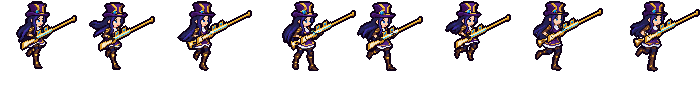
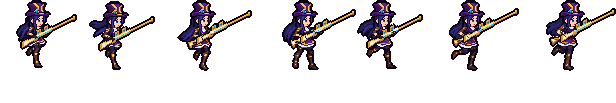
凯特琳跑步：后腿暗一级 + 每帧同一个头（tools/art/caitlyn_run_shade.py）（用户：「调暗后腿试试」「怎么感觉耳朵也变形了」）
- 底稿：她现在画的跑步帧，按 run_fix 修过（取自 claude/run-fix ca30bd62d：去掉画小了的旧第 5 帧，4 帧落到地面线，
  117 ms x 4 + 156 ms x 3 = 936 ms），存为 assets/source/caitlyn/hd/caitlyn_run_drawn.png。格子一个不动，
  只改颜色和头。
- 后腿：她的左腿（联盟的 L 腿，离镜头远的那条），每帧都是同一条腿（0-2 帧往后甩、3 帧在前落地、4-5 帧踩地、
  6 帧往后抬），靴子的棕、丝袜的藏青、扣子的金都按她自己的色阶暗一级，最暗那级不动；枪托和裙边的金不算腿。
- 头：站立帧（hd_idle_base 第 0 帧）的帽子、脸、耳朵和耳前的鬓发，每帧放在原来头的位置（按帽子对齐，跟着起伏整格
  移动）；后面飘的头发保留，头和头发相接处补 2 格描边；第 6 帧步枪从下巴前面过，步枪留在前面。耳朵那块 20 x 18
  的窗口，帧与帧之间变化从 156-247 格降到 36-74 格（只剩后面的头发在动，和第 6 帧下巴前的步枪）。
- 1x 帧按她其它 1x 动作的比例（高清 / 1.5）从高清帧做，lo_ 帧照 ppu_hd.add_lo。
- 形状一致性逐部件看过：头、两条腿、两只靴子、裙子都过；步枪在旧画里本来就有两种长度（第 0、1、4 帧约 60 格，
  其余 68-70 格），这次没改。

Changed region(s): [[0.0, 0.0, 0.8636, 0.699], [0.8636, 0.0, 1.0, 0.699]]

diff --git a/tools/art/caitlyn_run_shade.py b/tools/art/caitlyn_run_shade.py
@@ -1,0 +1,349 @@
+#!/usr/bin/env python3
+"""league_caitlyn's run: her own drawn frames, the far leg a shade darker and one head in every frame (the user, on
+her run: 「女警看不出交叉步啊」, then 「调暗后腿试试」 - darken the back leg - and 「怎么感觉耳朵也变形了」 - her ear changed from
+frame to frame).
+
+    python tools/art/caitlyn_run_shade.py                 # run / hd_run / lo_run into the sheet (+ the strips)
+    python tools/art/caitlyn_run_shade.py --check         # exit 1 when the sheet's run tags are not what it makes
+    python tools/art/caitlyn_run_shade.py --dry           # make them, write nothing
+
+The frames are her old run's drawings as tools/art/run_fix.py left them (assets/source/caitlyn/hd/
+caitlyn_run_drawn.png: the old frames 0 1 2 3 4 6 7 - the 6th, drawn small, dropped - the feet on the ground line,
+117 ms a frame in one step and 156 in the other). No square of them moves but whole frames; only colours change, and
+the head is one drawing:
+
+- the far leg: her left leg (League's L leg: in her poses.json camera, tools/lol/pose_joints.py, it is the one away
+  from the camera), the same leg through the cycle - swinging back in frames 0-2 (kicked up, folded, passing), landing
+  in front in 3, planted under her in 4-5, lifting behind in 6 - its stocking and its boot (every square of FAR's
+  rects in her leg colours, but a gold of the rifle's stock or the skirt's trim reaching in) one step down her own
+  ramps (DARKER: the boot's browns, the stocking's navies, the buckles' golds); the darkest of each ramp stays (a
+  step more is the outline). The near leg, and where it lies over the far one, untouched;
+- the head: the standing frame's (hd_idle_base[0] within HEAD: the hat, the face, the ear and the sidelocks in front
+  of it - cleaner than any run frame's, and the head she has standing; not the bit of her rifle HEAD's corner takes
+  in) put in every frame where that frame's own head was (its hat matched square for square, so it follows her bob
+  by whole squares); where the rifle passes in front of her chin (frame 6) the rifle stays in front, an outline on
+  the head's side of it; round the head the frame's own hat, face and sidelocks cleared (never the rifle), her back
+  hair kept; where the head meets that hair, 2 squares of outline on the hair's side; an edge the clearing bared
+  closed with outline, and a pinhole of ground the head shut in filled with outline. The ear's window then changes
+  from frame to frame only where her hair moves behind it.
+The 1x frames come from the dense ones as tools/art/ppu_one.py's one_frame makes them, at her 1x tags' own scale
+(ONE: her idle, attack and old run 1x frames are her hd_ ones at 1 / 1.5, not 1 / PPU - a run at 1 / 1.45 stood
+4 % taller than her other 1x tags), the lo_ frames as tools/art/ppu_hd.py's add_lo does. Her frames feed no derived
+art (illaoi_souls / hero_reels read other heroes).
+"""
+import argparse
+import json
+import os
+import sys
+
+import numpy as np
+from PIL import Image
+from scipy import ndimage
+
+HERE = os.path.dirname(os.path.abspath(__file__))
+ROOT = os.path.dirname(os.path.dirname(HERE))
+sys.path.insert(0, HERE)
+import run_fix as F  # noqa: E402
+import thin_outline as T  # noqa: E402
+
+HERO = "league_caitlyn"
+SOURCE = os.path.join(ROOT, "assets", "source", "caitlyn", "hd", "caitlyn_run_drawn")
+OUT = (14, 0, 21)
+ONE = 1.5                 # her hd_ squares a 1x pixel in her 1x tags (idle, attack, the old run: measured)
+# one step down her ramps (light -> dark): boot browns, stocking navies, buckle golds
+DARKER = {(135, 80, 35): (108, 61, 43), (108, 61, 43): (79, 42, 31), (79, 42, 31): (45, 32, 32),
+          (40, 39, 98): (35, 33, 79), (35, 33, 79): (22, 12, 44),
+          (251, 204, 74): (238, 175, 49), (238, 175, 49): (217, 152, 38), (217, 152, 38): (201, 132, 29),
+          (201, 132, 29): (186, 119, 29), (186, 119, 29): (160, 97, 29), (160, 97, 29): (135, 80, 35)}
+LEG = set(DARKER) | {(45, 32, 32), (22, 12, 44)}
+# the far leg's squares in each frame: [((row0, row1), (col0, col1))] inclusive, frame squares, from the skirt's hem
+FAR = {
+    0: [((46, 49), (24, 34)), ((50, 58), (22, 33))],      # swinging back, kicked up (the planted leg from col 35)
+    1: [((47, 48), (31, 33)), ((49, 51), (24, 32)), ((52, 60), (22, 31))],   # kicked up higher (its thigh's top
+                                                                             # under the hem as frame 0's)
+    2: [((47, 50), (34, 45)), ((51, 61), (33, 44))],      # folded, passing behind the planted leg
+    3: [((47, 70), (51, 70))],                            # landed in front
+    4: [((46, 69), (26, 42))],                            # planted under her (the near leg kicks back, cols < 26)
+    5: [((47, 71), (40, 56))],                            # planted, the near leg passing behind (cols < 40)
+    6: [((46, 56), (26, 45))],                            # lifting behind (the near leg planted from col 46)
+}
+# what shines on the rifle and the skirt's trim: their golds, creams and whites (a gold of FAR's that runs into these
+# outside FAR is theirs, not a buckle of the leg's)
+SHINE = {(251, 204, 74), (238, 175, 49), (217, 152, 38), (201, 132, 29), (186, 119, 29), (160, 97, 29),
+         (247, 237, 206), (242, 221, 175), (251, 250, 251), (223, 227, 242), (196, 201, 229)}
+HEAD = [(19, 0), (47, 0), (47, 16), (44, 17), (44, 28), (26, 28), (26, 17), (19, 17)]   # hd_idle_base[0] squares
+EAR_COL, BRIM, CHIN = 26, 17, 28      # (idle squares) the ear's left edge, the brim's underside, the chin's bottom
+
+
+def lp(path):
+    return F.lp(path)
+
+
+def drawn():
+    """The source frames -> ([dense frames], [ms], [1x sizes], [lo sizes])."""
+    with open(lp(SOURCE + ".json"), encoding="utf-8") as f:
+        meta = json.load(f)
+    px = np.asarray(Image.open(lp(SOURCE + ".png")).convert("RGBA"))
+    out, x = [], 0
+    for w, h in meta["sizes"]:
+        out.append(px[:h, x:x + w].copy())
+        x += w + 1
+    return out, meta["ms"], meta["one"], meta["lo"]
+
+
+def far_mask(a, i):
+    m = np.zeros(a.shape[:2], bool)
+    for (y0, y1), (x0, x1) in FAR[i]:
+        m[y0:y1 + 1, x0:x1 + 1] = True
+    leg = np.zeros(a.shape[:2], bool)
+    for c in LEG:
+        leg |= (a[..., :3] == np.array(c)).all(-1)
+    far = m & leg & (a[..., 3] > 0)
+    shine = colour_mask(a, SHINE)
+    lab, n = ndimage.label(shine, structure=np.ones((3, 3)))
+    for j in set(np.unique(lab[far & shine]).tolist()) - {0}:
+        if ((lab == j) & ~m).sum() >= 3:
+            far &= lab != j                             # the rifle's stock, the skirt's trim
+    return far
+
+
+def shaded(a, i):
+    b = a.copy()
+    for y, x in zip(*np.nonzero(far_mask(a, i))):
+        c = tuple(int(v) for v in a[y, x, :3])
+        if c in DARKER:
+            b[y, x, :3] = DARKER[c]
+    return b
+
+
+def the_head(idle):
+    """The standing frame's head -> (picture, mask, top-left in the idle frame): HEAD's squares joined to the head
+    (not the bit of her rifle HEAD's corner takes in by the chin)."""
+    m = F_poly(idle.shape, HEAD) & (idle[..., 3] > 0)
+    lab, n = ndimage.label(m, structure=np.ones((3, 3)))
+    m = lab == 1 + int(np.argmax(ndimage.sum(m, lab, range(1, n + 1))))
+    ys, xs = np.nonzero(m)
+    y0, x0 = ys.min(), xs.min()
+    h = idle[y0:ys.max() + 1, x0:xs.max() + 1].copy()
+    hm = m[y0:ys.max() + 1, x0:xs.max() + 1]
+    h[~hm] = 0
+    return h, hm, (int(x0), int(y0))
+
+
+def F_poly(shape, pts):
+    from PIL import ImageDraw
+    img = Image.new("L", (shape[1], shape[0]), 0)
+    ImageDraw.Draw(img).polygon([(x - 0.5, y - 0.5) for x, y in pts], fill=1, outline=1)
+    return np.asarray(img, bool)
+
+
+def hat_anchor(a):
+    """The hat's left edge and top (its purples)."""
+    rgb = a[..., :3].astype(int)
+    pur = (rgb[..., 0] - rgb[..., 1] > 20) & (rgb[..., 2] - rgb[..., 1] > 20) & (a[..., 3] > 0) & (rgb.sum(-1) > 120)
+    top = np.nonzero(pur.any(1))[0][0]
+    return int(np.nonzero(pur[top:top + 16].any(0))[0].min()), int(top)
+
+
+def place(a, h, hm, at, idle):
+    """Where the head goes in frame a: its hat on the frame's own hat (the best match within 3 squares of the hats'
+    corners lining up)."""
+    ix, iy = hat_anchor(idle)
+    ax, ay = hat_anchor(a)
+    bx, by = at[0] + ax - ix, at[1] + ay - iy
+    rows = slice(0, BRIM - at[1])
+    best = None
+    for dy in range(-3, 4):
+        for dx in range(-3, 4):
+            x, y = bx + dx, by + dy
+            if x < 0 or y < 0:
+                continue
+            sub = a[y:y + h.shape[0], x:x + h.shape[1]]
+            if sub.shape[:2] != h.shape[:2]:
+                continue
+            same = (np.abs(sub[..., :3].astype(int) - h[..., :3].astype(int)).sum(-1) <= 30) & hm & (sub[..., 3] > 0)
+            sc = same[rows].sum() + 50 * ((sub[..., 3] > 0) == hm)[rows].mean()
+            if best is None or sc > best[0]:
+                best = (sc, x, y)
+    return best[1], best[2]
+
+
+HAIR = {(22, 12, 44), (35, 33, 79), (40, 39, 98), (49, 41, 137), (64, 49, 168)}     # her hair's navies
+# her own head's colours (cleared round the locked head): the outline, the hat's purples, the hair, skin, blush, mouth -
+# never the rifle's golds, creams, whites or blues passing her face
+HEADS = {OUT, (47, 12, 65), (59, 16, 86), (74, 25, 111), (87, 36, 144), (252, 207, 174), (244, 162, 125),
+         (212, 115, 84), (208, 37, 56)} | HAIR
+
+
+def hairish(c):
+    return tuple(int(v) for v in c[:3]) in HAIR
+
+
+def removable(c):
+    """A square of the frame's own head round the locked one (HEADS)."""
+    return tuple(int(v) for v in c[:3]) in HEADS
+
+
+# the rifle's colours: its golds and creams (BODY), the scope's blues, its greys (not the whites: her collar's too)
+BODY = {(251, 204, 74), (238, 175, 49), (217, 152, 38), (201, 132, 29), (186, 119, 29), (160, 97, 29), (135, 80, 35),
+        (247, 237, 206), (242, 221, 175)}
+RIFLE = BODY | {(97, 212, 241), (9, 185, 249), (8, 158, 237), (6, 111, 206), (6, 110, 190), (6, 73, 167),
+                (3, 90, 109), (68, 111, 143), (134, 186, 165), (122, 113, 105), (85, 92, 27)}
+
+
+def colour_mask(a, cols):
+    m = np.zeros(a.shape[:2], bool)
+    for c in cols:
+        m |= (a[..., :3] == np.array(c)).all(-1)
+    return m & (a[..., 3] > 0)
+
+
+def rifle_over(a, full, top):
+    """The rifle's squares inside the head's (with its outline there): where it passes in front of her chin. The
+    rifle: a run of its colours with 8 or more squares out of the head below the brim (row `top`) and its golds in
+    it - not the frame's own eyes inside its face, nor her collar's jewel."""
+    m = colour_mask(a, RIFLE)
+    gold = colour_mask(a, BODY)
+    lab, n = ndimage.label(m, structure=np.ones((3, 3)))
+    out = ~full
+    out[:top] = False
+    big = [j for j in range(1, n + 1) if ((lab == j) & out).sum() >= 8 and ((lab == j) & gold).sum() >= 3]
+    inside = np.isin(lab, big) & full
+    ink = T.is_outline(a, [OUT]) & full & ndimage.binary_dilation(inside, structure=np.ones((3, 3)))
+    return inside, inside | ink
+
+
+def locked(a, h, hm, at, idle):
+    """The frame with the one head -> (frame, the head's top-left, its squares, the rifle's squares over it)."""
+    x, y = place(a, h, hm, at, idle)
+    b = a.copy()
+    full = np.zeros(a.shape[:2], bool)
+    ys, xs = np.nonzero(hm)
+    full[ys + y, xs + x] = True
+    ear, brim, chin = EAR_COL - at[0], BRIM - at[1], CHIN - at[1]          # in the head's squares
+    rifle, over = rifle_over(a, full, y + brim)
+    head = full & ~over
+    zone = ndimage.binary_dilation(full, iterations=3) & ~full & (a[..., 3] > 0)
+    for yy, xx in zip(*np.nonzero(zone)):
+        r, c = yy - y, xx - x
+        if r >= chin:
+            continue                                    # the neck, the collar: the body's
+        if r >= brim and c < ear and (hairish(a[yy, xx]) or tuple(a[yy, xx, :3]) == OUT):
+            continue                                    # her back hair behind the ear
+        if removable(a[yy, xx]):
+            b[yy, xx] = 0
+    put = ~over[ys + y, xs + x]
+    b[ys[put] + y, xs[put] + x] = h[ys[put], xs[put]]
+    # the rifle in front of her chin: an outline on the head's side where it meets the rifle
+    edge = head & ~T.is_outline(b, [OUT]) & ndimage.binary_dilation(rifle)
+    b[edge, :3] = OUT
+    # an edge the clearing bared (the rifle's by her face) closed again: 2 squares of outline on what was cleared
+    cleared = zone & (b[..., 3] == 0)
+    body = (b[..., 3] > 0) & ~T.is_outline(b, [OUT]) & ~head
+    d = T.steps_from(body, np.ones(b.shape[:2], bool), 2)
+    close = cleared & (d <= 2) & ndimage.binary_dilation(body & ndimage.binary_dilation(cleared), iterations=2)
+    b[close, :3] = OUT
+    b[close, 3] = 255
+    # where the head meets her back hair: 2 squares of outline on the hair's side
+    hb = head & ~T.is_outline(b, [OUT])
+    d = T.steps_from(hb, np.ones(b.shape[:2], bool), 2)
+    seam = np.zeros(b.shape[:2], bool)
+    for yy, xx in zip(*np.nonzero((d >= 1) & (d <= 2) & (b[..., 3] > 0) & ~full)):
+        if brim <= yy - y < chin and hairish(b[yy, xx]):
+            seam[yy, xx] = True
+    b[seam, :3] = OUT
+    b[seam, 3] = 255
+    # a pinhole of ground the head shut in between its outline and the rifle's (not one of her drawing's): outline
+    shut = pockets(b) & ~pockets(a)
+    if shut.any():
+        lab, n = ndimage.label(shut)
+        if max(ndimage.sum(shut, lab, range(1, n + 1))) > 3:
+            sys.exit(f"{HERO}: the head shuts in a pocket of ground bigger than a pinhole")
+        b[shut, :3] = OUT
+        b[shut, 3] = 255
+    return b, (x, y), head, over
+
+
+def pockets(a):
+    """The clear squares the figure shuts in (not reaching the frame's edge)."""
+    lab, n = ndimage.label(a[..., 3] == 0)
+    edge = np.unique(np.concatenate([lab[0], lab[-1], lab[:, 0], lab[:, -1]]))
+    return (lab > 0) & ~np.isin(lab, edge)
+
+
+def make():
+    """-> {"hd_run", "run", "lo_run": [(frame, ms)]} and per frame the far leg's and the head's squares."""
+    import ppu_one
+    import ppu_hd
+    hid, pack, ppu, size = T.resolve(HERO, T.all_heroes())
+    an, px = F.read_sheet(hid, pack)
+    idle = F.frames_of(an, px, "hd_idle_base")[0][0]
+    h, hm, at = the_head(idle)
+    frames, ms, ones, los = drawn()
+    dense, info = [], []
+    for i, a in enumerate(frames):
+        s = shaded(a, i)
+        b, head_at, head, over = locked(s, h, hm, at, idle)
+        dense.append(b)
+        info.append({"far": far_mask(a, i), "head": head, "head_at": head_at, "rifle_over": over})
+    one = []
+    for b, (w, hh) in zip(dense, ones):
+        ws = [w + 2 * k for k in range(6)]
+        hs = [hh + 2 * k for k in range(6)]
+        f, off = ppu_one.one_frame(b, w, hh, 1.0 / ONE, ws, hs)
+        if off:
+            sys.exit(f"{HERO}: a 1x frame loses {off} squares off its rect")
+        one.append(f)
+    mini = {"run": list(zip(one, ms)), "hd_run": list(zip(dense, ms))}
+    ppu_hd.add_lo(hid.split("_", 1)[1], mini)
+    return {"hd_run": list(zip(dense, ms)), "run": list(zip(one, ms)), "lo_run": mini["lo_run"]}, info
+
+
+def strips(dense):
+    """assets/source/ppu/caitlyn_run.png (+ .json) and its orig/ twin: these frames (tools/art/ppu_hd.py's strip)."""
+    for folder in (os.path.join(ROOT, "assets", "source", "ppu"), os.path.join(ROOT, "assets", "source", "ppu", "orig")):
+        png, js = (os.path.join(folder, "caitlyn_run." + e) for e in ("png", "json"))
+        H = max(a.shape[0] for a in dense)
+        out = np.zeros((H, sum(a.shape[1] + 1 for a in dense) - 1, 4), np.uint8)
+        x = 0
+        for a in dense:
+            out[:a.shape[0], x:x + a.shape[1]] = a
+            x += a.shape[1] + 1
+        Image.fromarray(out, "RGBA").save(lp(png), optimize=True)
+        meta = {}
+        if os.path.exists(lp(js)):
+            with open(lp(js), encoding="utf-8") as f:
+                meta = json.load(f)
+        meta["sizes"] = [[a.shape[1], a.shape[0]] for a in dense]
+        with open(lp(js), "w", encoding="utf-8", newline="\n") as f:
+            json.dump(meta, f)
+
+
+def main():
+    ap = argparse.ArgumentParser(description=__doc__, formatter_class=argparse.RawDescriptionHelpFormatter)
+    ap.add_argument("--check", action="store_true")
+    ap.add_argument("--dry", action="store_true")
+    a = ap.parse_args()
+    new, _ = make()
+    hid, pack, _, _ = T.resolve(HERO, T.all_heroes())
+    an, px = F.read_sheet(hid, pack)
+    if a.check:
+        bad = []
+        for t, fr in new.items():
+            cur = F.frames_of(an, px, t)
+            if len(cur) != len(fr) or any(c[1] != m or not np.array_equal(c[0], f) for c, (f, m) in zip(cur, fr)):
+                bad.append(t)
+        if bad:
+            sys.exit(f"{HERO}: {', '.join(bad)} not as tools/art/caitlyn_run_shade.py makes them")
+        print(f"ok: {HERO} run tags as made")
+        return
+    if a.dry:
+        print({t: len(v) for t, v in new.items()})
+        return
+    F.write(hid, pack, an, px, new)
+    strips([f for f, _ in new["hd_run"]])
+    print(f"{HERO}: run / hd_run / lo_run {len(new['hd_run'])} frames written")
+
+
+if __name__ == "__main__":
+    main()
